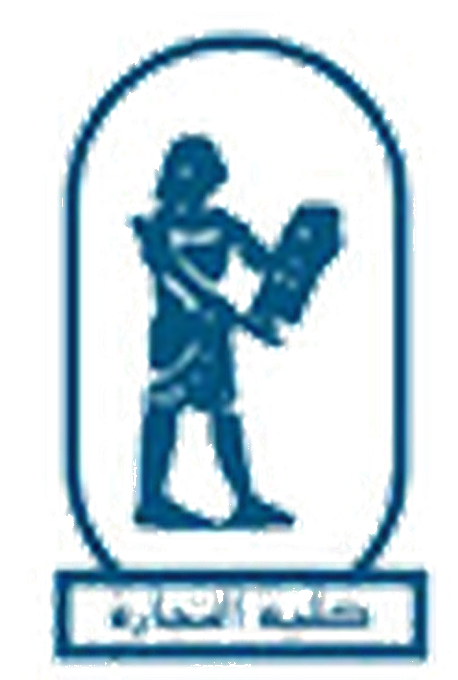
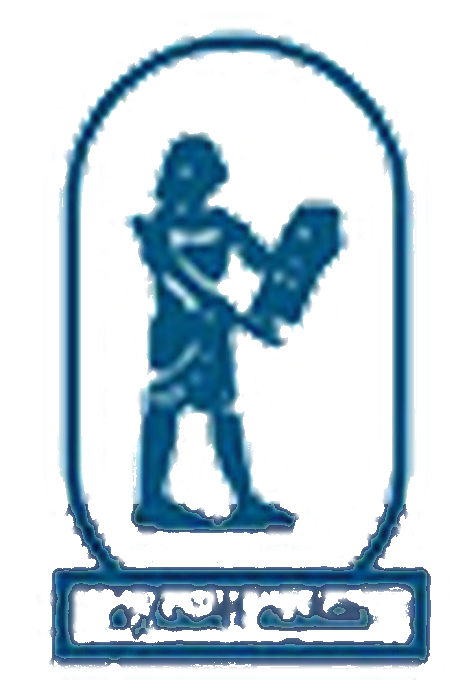
Lift the cover seals off the white plates and light them with a soft glow.

diff --git a/src/index.css b/src/index.css
@@ -4670,23 +4670,46 @@ button {
 }
 
 .nile-cover-stage .cover-logo-plate {
+  position: relative;
+  isolation: isolate;
   display: flex;
   align-items: center;
   justify-content: center;
-  background: #f7fbfa;
-  border-radius: 22px;
-  padding: 12px 14px;
-  box-shadow:
-    0 12px 28px rgba(0, 0, 0, 0.4),
-    0 0 0 1px rgba(226, 184, 74, 0.7);
+  background: transparent;
+  border-radius: 0;
+  padding: 8px;
+  box-shadow: none;
+}
+
+.nile-cover-stage .cover-logo-plate::before {
+  content: "";
+  position: absolute;
+  left: 50%;
+  top: 50%;
+  width: 86%;
+  height: 78%;
+  transform: translate(-50%, -50%);
+  z-index: 0;
+  pointer-events: none;
+  border-radius: 50%;
+  background: radial-gradient(
+    circle,
+    rgba(255, 250, 236, 0.55) 0%,
+    rgba(255, 226, 170, 0.16) 48%,
+    rgba(255, 255, 255, 0) 72%
+  );
+  filter: blur(10px);
 }
 
 .nile-cover-stage .cover-logo {
+  position: relative;
+  z-index: 1;
   height: clamp(132px, 22vh, 200px);
   width: auto;
   max-width: 210px;
   object-fit: contain;
   background: transparent;
+  filter: drop-shadow(0 0 18px rgba(255, 246, 220, 0.45));
 }
 
 .nile-cover-stage .cover-logo-faculty {

diff --git a/src/sections/Cover.tsx b/src/sections/Cover.tsx
@@ -64,7 +64,7 @@ export function CoverScene({
         <span className="cover-logo-plate">
           <img
             className="cover-logo cover-logo-faculty"
-            src="/brand/faculty-commerce.png?v=3"
+            src="/brand/faculty-commerce.png?v=4"
             alt="Faculty of Commerce"
           />
         </span>
@@ -76,7 +76,7 @@ export function CoverScene({
         <span className="cover-logo-plate">
           <img
             className="cover-logo cover-logo-cu"
-            src="/brand/cairo-university.png?v=3"
+            src="/brand/cairo-university.png?v=4"
             alt="Cairo University"
           />
         </span>
